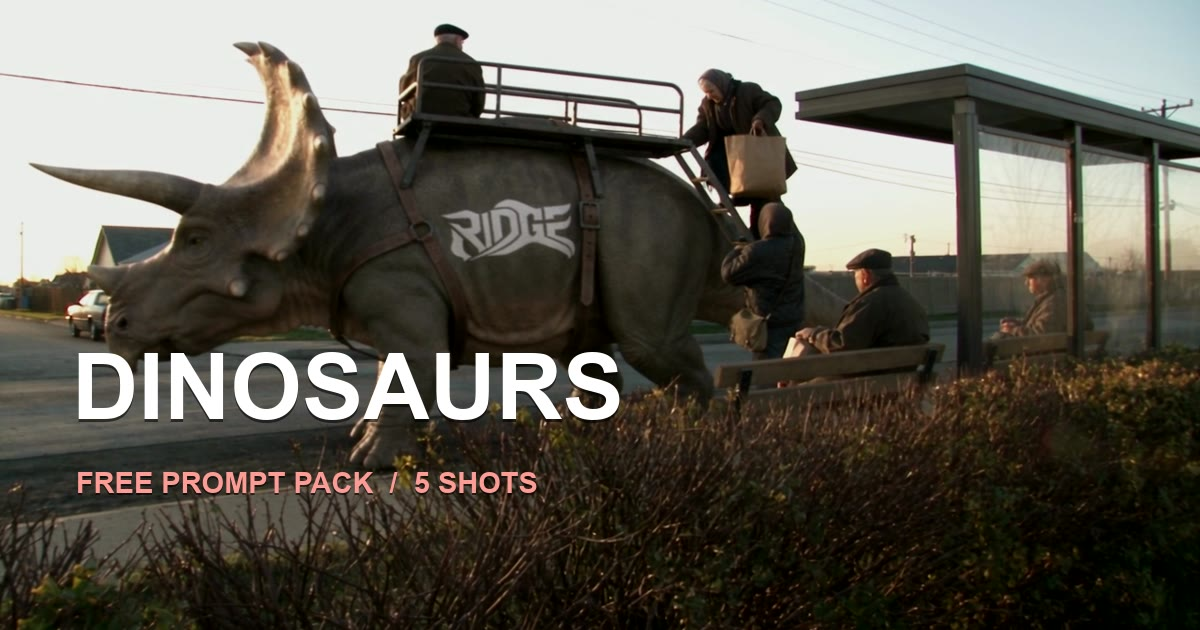
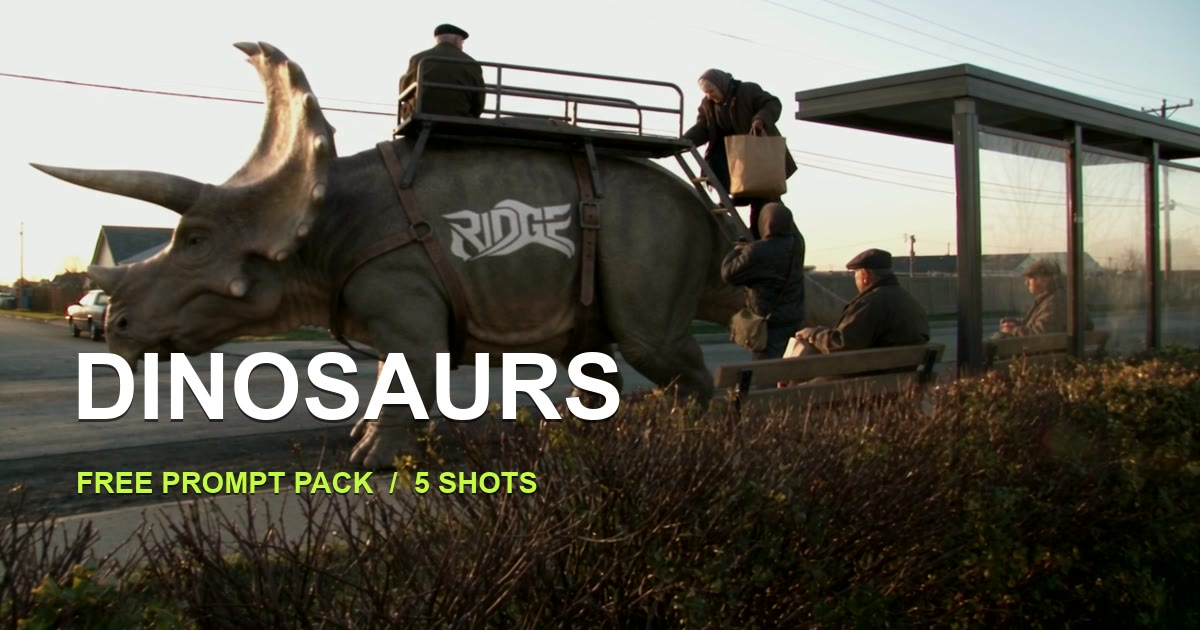
Move the palette to a brighter lime green
Back to the Odyssey hue family: the green tinted charcoal ramp is now identical
to the Odyssey one, and the accent is its acid pushed up. oklch(0.918 0.210 125),
#C4FB41 against the Odyssey #CAF052, 7.5% more relative luminance and more chroma,
held at 91% of the sRGB headroom for the hue so it cannot clip.

The accent lives in more places than the CSS token, so favicon, apple touch icon,
og.jpg subtitle, REF_BG for the logo tile, theme-color and eight literal oklch()
values in the sheet all moved with it. og.jpg and logo.webp were deleted so the
build would regenerate them rather than keep the red ones.

Band label opacity goes back to the Odyssey 74%; the brighter band carries it at
6.61:1. Measured floor is now dim on ink at 5.22:1.

Changed region(s): [[0.0617, 0.7238, 0.4625, 0.7841]]

diff --git a/_build/index.template.html b/_build/index.template.html
@@ -5,7 +5,7 @@
 <meta name="viewport" content="width=device-width, initial-scale=1, viewport-fit=cover">
 <title>Dinosaurs / Free Prompt Pack</title>
 <meta name="description" content="What if dinosaurs were still alive, and friendly? Five AI shots, filmed like 2003 home video. The full prompts and the finished clips. Free, no email, no sign up.">
-<meta name="theme-color" content="#0F0A0A">
+<meta name="theme-color" content="#0A0C0A">
 <link rel="icon" href="favicon.svg" type="image/svg+xml">
 <link rel="apple-touch-icon" href="apple-touch-icon.png">
 <meta property="og:type" content="website">
@@ -23,18 +23,20 @@
 <link href="https://fonts.googleapis.com/css2?family=Archivo:wdth,wght@62..125,400..700&family=Geist+Mono:wght@400;500&display=swap" rel="stylesheet">
 <style>
 :root{
-  /* ink is a warm red-tinted charcoal, never pure black */
-  --ink:        oklch(0.152 0.008 28);
-  --ink-2:      oklch(0.190 0.010 28);
-  --ink-3:      oklch(0.232 0.011 28);
-  --paper:      oklch(0.945 0.009 45);
-  --paper-2:    oklch(0.790 0.011 42);
-  --dim:        oklch(0.618 0.014 38);
-  /* one accent: a pastel red, sitting at the sRGB gamut edge for this hue */
-  --accent:     oklch(0.790 0.118 24);
-  --accent-hi:  oklch(0.838 0.088 24);
-  --accent-ink: oklch(0.212 0.056 28);
-  --accent-dim: oklch(0.790 0.118 24 / .32);
+  /* ink is a green-tinted charcoal, never pure black */
+  --ink:        oklch(0.152 0.006 150);
+  --ink-2:      oklch(0.190 0.007 152);
+  --ink-3:      oklch(0.232 0.008 152);
+  --paper:      oklch(0.945 0.007 140);
+  --paper-2:    oklch(0.790 0.008 142);
+  --dim:        oklch(0.612 0.010 145);
+  /* one accent: a lime green, brighter and more saturated than the Odyssey acid
+     (#CAF052) it is derived from, held at 91% of the sRGB chroma headroom for
+     this hue so it cannot clip */
+  --accent:     oklch(0.918 0.210 125);
+  --accent-hi:  oklch(0.948 0.155 124);
+  --accent-ink: oklch(0.215 0.055 128);
+  --accent-dim: oklch(0.918 0.210 125 / .30);
   --line:       oklch(1 0 0 / .09);
   --line-2:     oklch(1 0 0 / .05);
 
@@ -69,7 +71,7 @@ button{font:inherit;color:inherit;background:none;border:0;cursor:pointer}
 }
 
 /* ---------- top bar ---------- */
-.top{position:sticky;top:0;z-index:60;background:oklch(0.152 0.008 28 / .78);backdrop-filter:blur(16px);-webkit-backdrop-filter:blur(16px);border-bottom:1px solid var(--line-2)}
+.top{position:sticky;top:0;z-index:60;background:oklch(0.152 0.006 150 / .78);backdrop-filter:blur(16px);-webkit-backdrop-filter:blur(16px);border-bottom:1px solid var(--line-2)}
 .top-in{display:flex;align-items:center;gap:24px;height:60px}
 .brand{display:flex;align-items:center;gap:10px;font-family:var(--mono);font-size:11px;letter-spacing:.16em;text-transform:uppercase}
 .brand i{width:7px;height:7px;background:var(--accent);border-radius:1px}
@@ -95,7 +97,7 @@ button{font:inherit;color:inherit;background:none;border:0;cursor:pointer}
 .btn.ghost:hover{color:var(--paper);border-color:oklch(1 0 0 / .24);background:oklch(1 0 0 / .03)}
 .btn.big{height:56px;padding:0 24px;font-size:17px;border-radius:10px}
 .btn.dark{background:var(--accent-ink);color:var(--accent);border-color:var(--accent-ink)}
-.btn.dark:hover{background:oklch(0.158 0.044 28);border-color:oklch(0.158 0.044 28)}
+.btn.dark:hover{background:oklch(0.160 0.040 128);border-color:oklch(0.160 0.040 128)}
 .btn.done{background:transparent;color:var(--accent);border-color:var(--accent-dim)}
 
 /* ---------- hero ---------- */
@@ -122,7 +124,7 @@ h1{
 
 /* ---------- proof band ---------- */
 .proof{background:var(--accent);color:var(--accent-ink);padding:clamp(38px,6vw,60px) 0 clamp(30px,4vw,44px)}
-.proof .k{color:oklch(0.212 0.056 28 / .80)}
+.proof .k{color:oklch(0.215 0.055 128 / .74)}
 .figure{
   display:block;margin:clamp(10px,1.6vw,18px) 0 0;
   font-size:clamp(50px,14.6vw,208px);line-height:.82;font-weight:700;font-stretch:118%;
@@ -131,17 +133,17 @@ h1{
 .figure-line{
   margin:clamp(6px,1vw,12px) 0 0;
   font-size:clamp(21px,3.1vw,42px);font-weight:500;font-stretch:108%;
-  letter-spacing:-.025em;line-height:1.05;opacity:.84;
+  letter-spacing:-.025em;line-height:1.05;opacity:.8;
 }
 .grid-stats{
   display:flex;flex-wrap:wrap;gap:0 clamp(30px,5.4vw,80px);
-  margin-top:clamp(26px,4vw,40px);border-top:1px solid oklch(0.212 0.056 28 / .22);
+  margin-top:clamp(26px,4vw,40px);border-top:1px solid oklch(0.215 0.055 128 / .22);
 }
 .grid-stats div{padding:16px 0 4px}
 .grid-stats b{display:block;font-family:var(--mono);font-size:clamp(15px,1.55vw,21px);font-weight:500;letter-spacing:-.01em;font-variant-numeric:tabular-nums}
-.grid-stats span{display:block;margin-top:4px;font-family:var(--mono);font-size:11px;letter-spacing:.09em;text-transform:uppercase;opacity:.80}
+.grid-stats span{display:block;margin-top:4px;font-family:var(--mono);font-size:11px;letter-spacing:.09em;text-transform:uppercase;opacity:.74}
 .proof-foot{display:flex;align-items:center;gap:18px;flex-wrap:wrap;margin-top:clamp(24px,3.4vw,34px)}
-.proof-foot p{margin:0;max-width:44ch;font-size:15px;line-height:1.55;opacity:.86}
+.proof-foot p{margin:0;max-width:44ch;font-size:15px;line-height:1.55;opacity:.82}
 
 /* ---------- shots ---------- */
 .shot{padding:clamp(60px,9vh,110px) 0;border-top:1px solid var(--line-2)}
@@ -174,7 +176,7 @@ h1{
 .player.on .play{display:none}
 .player .load{
   position:absolute;left:16px;bottom:16px;padding:6px 12px;border-radius:999px;
-  background:oklch(0.152 0.008 28 / .78);backdrop-filter:blur(8px);
+  background:oklch(0.152 0.006 150 / .78);backdrop-filter:blur(8px);
   font-family:var(--mono);font-size:11px;letter-spacing:.1em;text-transform:uppercase;color:var(--paper-2);
   opacity:0;transition:opacity 200ms var(--out);pointer-events:none;
 }
@@ -218,7 +220,7 @@ h1{
 .prompt[data-open="true"] pre{max-height:none;padding-bottom:8px}
 .prompt::after{
   content:"";position:absolute;left:0;right:0;bottom:0;height:150px;pointer-events:none;
-  background:linear-gradient(180deg,oklch(0.190 0.010 28 / 0),oklch(0.190 0.010 28 / .93) 58%,var(--ink-2));
+  background:linear-gradient(180deg,oklch(0.190 0.007 152 / 0),oklch(0.190 0.007 152 / .93) 58%,var(--ink-2));
 }
 .prompt[data-open="true"]::after{height:74px}
 /* centring lives in transform only: mixing it with the translate property
@@ -256,7 +258,7 @@ h1{
 .legal{display:flex;justify-content:space-between;gap:16px;flex-wrap:wrap;margin-top:clamp(52px,7vh,80px);padding-top:22px;border-top:1px solid var(--line-2);color:var(--dim);font-family:var(--mono);font-size:11px;letter-spacing:.1em;text-transform:uppercase}
 
 /* ---------- lightbox ---------- */
-.lb{position:fixed;inset:0;z-index:100;display:none;background:oklch(0.115 0.007 28 / .95);backdrop-filter:blur(12px);-webkit-backdrop-filter:blur(12px)}
+.lb{position:fixed;inset:0;z-index:100;display:none;background:oklch(0.110 0.005 150 / .95);backdrop-filter:blur(12px);-webkit-backdrop-filter:blur(12px)}
 .lb.on{display:flex;flex-direction:column}
 .lb-bar{display:flex;align-items:center;gap:16px;padding:16px var(--pad);border-bottom:1px solid var(--line-2)}
 .lb-role{font-family:var(--mono);font-size:11px;letter-spacing:.11em;text-transform:uppercase;color:var(--accent)}

diff --git a/index.html b/index.html
@@ -5,7 +5,7 @@
 <meta name="viewport" content="width=device-width, initial-scale=1, viewport-fit=cover">
 <title>Dinosaurs / Free Prompt Pack</title>
 <meta name="description" content="What if dinosaurs were still alive, and friendly? Five AI shots, filmed like 2003 home video. The full prompts and the finished clips. Free, no email, no sign up.">
-<meta name="theme-color" content="#0F0A0A">
+<meta name="theme-color" content="#0A0C0A">
 <link rel="icon" href="favicon.svg" type="image/svg+xml">
 <link rel="apple-touch-icon" href="apple-touch-icon.png">
 <meta property="og:type" content="website">
@@ -23,18 +23,20 @@
 <link href="https://fonts.googleapis.com/css2?family=Archivo:wdth,wght@62..125,400..700&family=Geist+Mono:wght@400;500&display=swap" rel="stylesheet">
 <style>
 :root{
-  /* ink is a warm red-tinted charcoal, never pure black */
-  --ink:        oklch(0.152 0.008 28);
-  --ink-2:      oklch(0.190 0.010 28);
-  --ink-3:      oklch(0.232 0.011 28);
-  --paper:      oklch(0.945 0.009 45);
-  --paper-2:    oklch(0.790 0.011 42);
-  --dim:        oklch(0.618 0.014 38);
-  /* one accent: a pastel red, sitting at the sRGB gamut edge for this hue */
-  --accent:     oklch(0.790 0.118 24);
-  --accent-hi:  oklch(0.838 0.088 24);
-  --accent-ink: oklch(0.212 0.056 28);
-  --accent-dim: oklch(0.790 0.118 24 / .32);
+  /* ink is a green-tinted charcoal, never pure black */
+  --ink:        oklch(0.152 0.006 150);
+  --ink-2:      oklch(0.190 0.007 152);
+  --ink-3:      oklch(0.232 0.008 152);
+  --paper:      oklch(0.945 0.007 140);
+  --paper-2:    oklch(0.790 0.008 142);
+  --dim:        oklch(0.612 0.010 145);
+  /* one accent: a lime green, brighter and more saturated than the Odyssey acid
+     (#CAF052) it is derived from, held at 91% of the sRGB chroma headroom for
+     this hue so it cannot clip */
+  --accent:     oklch(0.918 0.210 125);
+  --accent-hi:  oklch(0.948 0.155 124);
+  --accent-ink: oklch(0.215 0.055 128);
+  --accent-dim: oklch(0.918 0.210 125 / .30);
   --line:       oklch(1 0 0 / .09);
   --line-2:     oklch(1 0 0 / .05);
 
@@ -69,7 +71,7 @@ button{font:inherit;color:inherit;background:none;border:0;cursor:pointer}
 }
 
 /* ---------- top bar ---------- */
-.top{position:sticky;top:0;z-index:60;background:oklch(0.152 0.008 28 / .78);backdrop-filter:blur(16px);-webkit-backdrop-filter:blur(16px);border-bottom:1px solid var(--line-2)}
+.top{position:sticky;top:0;z-index:60;background:oklch(0.152 0.006 150 / .78);backdrop-filter:blur(16px);-webkit-backdrop-filter:blur(16px);border-bottom:1px solid var(--line-2)}
 .top-in{display:flex;align-items:center;gap:24px;height:60px}
 .brand{display:flex;align-items:center;gap:10px;font-family:var(--mono);font-size:11px;letter-spacing:.16em;text-transform:uppercase}
 .brand i{width:7px;height:7px;background:var(--accent);border-radius:1px}
@@ -95,7 +97,7 @@ button{font:inherit;color:inherit;background:none;border:0;cursor:pointer}
 .btn.ghost:hover{color:var(--paper);border-color:oklch(1 0 0 / .24);background:oklch(1 0 0 / .03)}
 .btn.big{height:56px;padding:0 24px;font-size:17px;border-radius:10px}
 .btn.dark{background:var(--accent-ink);color:var(--accent);border-color:var(--accent-ink)}
-.btn.dark:hover{background:oklch(0.158 0.044 28);border-color:oklch(0.158 0.044 28)}
+.btn.dark:hover{background:oklch(0.160 0.040 128);border-color:oklch(0.160 0.040 128)}
 .btn.done{background:transparent;color:var(--accent);border-color:var(--accent-dim)}
 
 /* ---------- hero ---------- */
@@ -122,7 +124,7 @@ h1{
 
 /* ---------- proof band ---------- */
 .proof{background:var(--accent);color:var(--accent-ink);padding:clamp(38px,6vw,60px) 0 clamp(30px,4vw,44px)}
-.proof .k{color:oklch(0.212 0.056 28 / .80)}
+.proof .k{color:oklch(0.215 0.055 128 / .74)}
 .figure{
   display:block;margin:clamp(10px,1.6vw,18px) 0 0;
   font-size:clamp(50px,14.6vw,208px);line-height:.82;font-weight:700;font-stretch:118%;
@@ -131,17 +133,17 @@ h1{
 .figure-line{
   margin:clamp(6px,1vw,12px) 0 0;
   font-size:clamp(21px,3.1vw,42px);font-weight:500;font-stretch:108%;
-  letter-spacing:-.025em;line-height:1.05;opacity:.84;
+  letter-spacing:-.025em;line-height:1.05;opacity:.8;
 }
 .grid-stats{
   display:flex;flex-wrap:wrap;gap:0 clamp(30px,5.4vw,80px);
-  margin-top:clamp(26px,4vw,40px);border-top:1px solid oklch(0.212 0.056 28 / .22);
+  margin-top:clamp(26px,4vw,40px);border-top:1px solid oklch(0.215 0.055 128 / .22);
 }
 .grid-stats div{padding:16px 0 4px}
 .grid-stats b{display:block;font-family:var(--mono);font-size:clamp(15px,1.55vw,21px);font-weight:500;letter-spacing:-.01em;font-variant-numeric:tabular-nums}
-.grid-stats span{display:block;margin-top:4px;font-family:var(--mono);font-size:11px;letter-spacing:.09em;text-transform:uppercase;opacity:.80}
+.grid-stats span{display:block;margin-top:4px;font-family:var(--mono);font-size:11px;letter-spacing:.09em;text-transform:uppercase;opacity:.74}
 .proof-foot{display:flex;align-items:center;gap:18px;flex-wrap:wrap;margin-top:clamp(24px,3.4vw,34px)}
-.proof-foot p{margin:0;max-width:44ch;font-size:15px;line-height:1.55;opacity:.86}
+.proof-foot p{margin:0;max-width:44ch;font-size:15px;line-height:1.55;opacity:.82}
 
 /* ---------- shots ---------- */
 .shot{padding:clamp(60px,9vh,110px) 0;border-top:1px solid var(--line-2)}
@@ -174,7 +176,7 @@ h1{
 .player.on .play{display:none}
 .player .load{
   position:absolute;left:16px;bottom:16px;padding:6px 12px;border-radius:999px;
-  background:oklch(0.152 0.008 28 / .78);backdrop-filter:blur(8px);
+  background:oklch(0.152 0.006 150 / .78);backdrop-filter:blur(8px);
   font-family:var(--mono);font-size:11px;letter-spacing:.1em;text-transform:uppercase;color:var(--paper-2);
   opacity:0;transition:opacity 200ms var(--out);pointer-events:none;
 }
@@ -218,7 +220,7 @@ h1{
 .prompt[data-open="true"] pre{max-height:none;padding-bottom:8px}
 .prompt::after{
   content:"";position:absolute;left:0;right:0;bottom:0;height:150px;pointer-events:none;
-  background:linear-gradient(180deg,oklch(0.190 0.010 28 / 0),oklch(0.190 0.010 28 / .93) 58%,var(--ink-2));
+  background:linear-gradient(180deg,oklch(0.190 0.007 152 / 0),oklch(0.190 0.007 152 / .93) 58%,var(--ink-2));
 }
 .prompt[data-open="true"]::after{height:74px}
 /* centring lives in transform only: mixing it with the translate property
@@ -256,7 +258,7 @@ h1{
 .legal{display:flex;justify-content:space-between;gap:16px;flex-wrap:wrap;margin-top:clamp(52px,7vh,80px);padding-top:22px;border-top:1px solid var(--line-2);color:var(--dim);font-family:var(--mono);font-size:11px;letter-spacing:.1em;text-transform:uppercase}
 
 /* ---------- lightbox ---------- */
-.lb{position:fixed;inset:0;z-index:100;display:none;background:oklch(0.115 0.007 28 / .95);backdrop-filter:blur(12px);-webkit-backdrop-filter:blur(12px)}
+.lb{position:fixed;inset:0;z-index:100;display:none;background:oklch(0.110 0.005 150 / .95);backdrop-filter:blur(12px);-webkit-backdrop-filter:blur(12px)}
 .lb.on{display:flex;flex-direction:column}
 .lb-bar{display:flex;align-items:center;gap:16px;padding:16px var(--pad);border-bottom:1px solid var(--line-2)}
 .lb-role{font-family:var(--mono);font-size:11px;letter-spacing:.11em;text-transform:uppercase;color:var(--accent)}

diff --git a/_build/build.py b/_build/build.py
@@ -39,7 +39,7 @@ REEL_URL = "https://www.instagram.com/by.ridge/"
 FFMPEG = "ffmpeg"
 
 # ink-2, so a transparent reference lands on the same surface the page uses
-REF_BG = (24, 18, 17)
+REF_BG = (18, 21, 18)
 
 # --------------------------------------------------------------------------
 # scene data
@@ -270,7 +270,7 @@ def build_og():
         "eq=brightness=-0.06:saturation=1.02,"
         f"drawtext=fontfile='{font}':text='DINOSAURS':fontcolor=white:fontsize=92:"
         "x=72:y=352:shadowcolor=black@0.55:shadowx=0:shadowy=3,"
-        f"drawtext=fontfile='{font}':text='FREE PROMPT PACK  /  5 SHOTS':fontcolor=0xFD9C95:"
+        f"drawtext=fontfile='{font}':text='FREE PROMPT PACK  /  5 SHOTS':fontcolor=0xC4FB41:"
         "fontsize=29:x=76:y=472:shadowcolor=black@0.6:shadowx=0:shadowy=2"
     )
     ok = run([FFMPEG, "-v", "error", "-y", "-ss", "0.55", "-i", str(src),

diff --git a/CLAUDE.md b/CLAUDE.md
@@ -101,14 +101,16 @@ actually moved.
 
 ## Design system
 
-Same system as the Odyssey pack, one colour axis moved. Do not drift from it.
+Same system as the Odyssey pack, same hue family, one notch brighter. Do not drift from it.
 
 - **Type**: Archivo, variable width axis, `font-stretch: 112-118%` on display sizes. Geist Mono for
   data, labels and prompt text. Inter is banned, it is the training data default.
-- **Colour**: OKLCH only, no pure black. Warm red tinted charcoal ramp `--ink`, `--ink-2`, `--ink-3`.
-  One accent, `--accent`, a pastel red at `oklch(0.790 0.118 24)`, which is the sRGB gamut edge for
-  that hue and lightness. Push the chroma any higher and the red channel clips, the browser clamps
-  it, and the token stops meaning what it says. The stats band is the single drenched surface.
+- **Colour**: OKLCH only, no pure black. Green tinted charcoal ramp `--ink`, `--ink-2`, `--ink-3`,
+  identical to the Odyssey ramp. One accent, `--accent`, a lime green at `oklch(0.918 0.210 125)`
+  (#C4FB41). That is the Odyssey acid (`oklch(0.900 0.185 122)`, #CAF052) pushed brighter and more
+  saturated, 7.5% more relative luminance. It sits at 91% of the sRGB chroma headroom for its hue,
+  which is deliberate: the last 9% is there so rounding cannot clip the green channel and turn the
+  token into something other than what it says. The stats band is the single drenched surface.
 - **Type scale**: 11 / 13 / 15 / 17 px plus display clamps. Weights 400, 500, 700, nothing else.
 - **Spacing**: 4 px grid for padding, radii and control heights.
 - **Motion**: one curve, `--out: cubic-bezier(.23,1,.32,1)`. Only transform and opacity animate.
@@ -116,12 +118,12 @@ Same system as the Odyssey pack, one colour axis moved. Do not drift from it.
 - **Banned**: neon glows, gradient text, glassmorphism, side stripe borders, three identical cards
   in a row, hero metric card grids.
 - **Contrast**: measured in the browser, not guessed. Body text 5.2:1 or better, band labels 5.4:1
-  or better. Current floor is `--dim` on `--ink` at 5.34:1 and the band labels at 5.92:1. Recheck by
+  or better. Current floor is `--dim` on `--ink` at 5.22:1 and the band labels at 6.61:1. Recheck by
   painting each token to a canvas and reading the pixels back, because `getComputedStyle` returns
   the `oklch()` string and a naive parser will read it as RGB and report nonsense.
 
-The Odyssey band labels sit at 74% opacity. Here they are at 80%, because the pastel red band is
-lighter than the acid lime one and 74% did not clear 5.4:1. Do not copy that number back across.
+Band label opacity is 74%, the same as Odyssey. An interim pastel red version of this page needed
+80% to clear 5.4:1; the lime band does not, and 74% measures 6.61:1.
 
 ## Copy rules
 
@@ -145,6 +147,13 @@ Do not quietly reverse these.
   "it is 2003, somebody has a camcorder, and dinosaurs are boring" and Ratmir cut it: boring is what
   the shots are doing, not what the visitor is being offered. The 2003 camcorder look stays as a
   fact, on the per shot chips and as a trailing clause, never as the hook.
+- **The palette is green, and the whole page has to move together when it changes.** The accent is
+  not only a CSS token. It is also baked into `favicon.svg`, `apple-touch-icon.png`, the subtitle
+  drawn onto `assets/og.jpg` by `build_og()`, `REF_BG` in `build.py` (the surface the transparent
+  logo tile is flattened onto), the `theme-color` meta, and roughly eight literal `oklch()` values
+  in the sheet that cannot use a var: the sticky top bar, the loading pill, the dark button hover,
+  the band label colour, the band rule, the prompt fade gradient and the lightbox scrim. Delete
+  `assets/og.jpg` and `assets/r/logo.webp` before rebuilding or the build keeps the old ones.
 - **`REEL_URL` in `build.py` points at the profile, not the post.** The reel URL was not known when
   the page was built. Set it to the actual post and rebuild.
 - **The model is not named on the page.** Chips say `16:9`, `SFX only`, `2003 camcorder`, all facts
